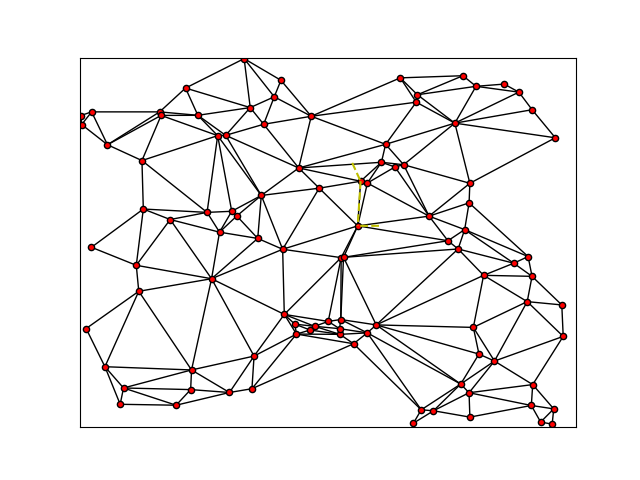
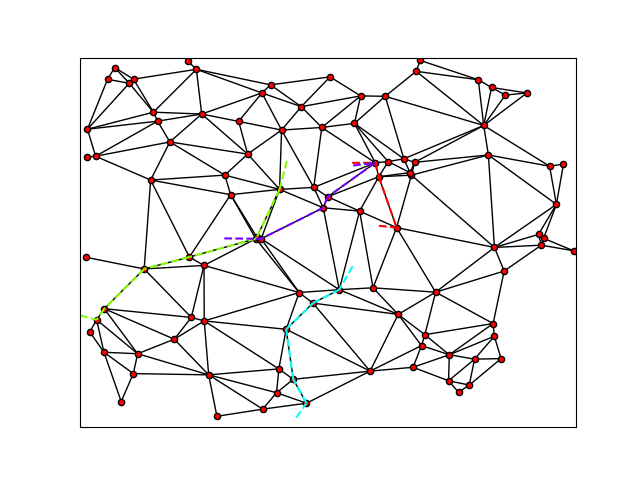
what is the cost doing?

Changed region(s): [[0.125, 0.125, 0.9062, 0.9062], [0.1562, 0.4688, 0.1875, 0.5]]

diff --git a/roadmaps/var_odrm_torch/var_odrm_torch.py b/roadmaps/var_odrm_torch/var_odrm_torch.py
@@ -6,6 +6,7 @@ import numpy as np
 import torch
 from networkx.exception import NetworkXNoPath, NodeNotFound
 from pyflann import FLANN
+from scenarios.visualization import get_colors
 from scipy.spatial import Delaunay
 from tools import ProgressBar
 
@@ -63,38 +64,43 @@ def draw_graph(g, pos, paths=[]):
     pos_dict = {i: pos_np[i] for i in range(N)}
     nx.draw_networkx(g, pos_dict, **options)
 
-    style = 'y--'
-    for p in paths:
+    colors = get_colors(len(paths))
+    style = '--'
+    for i_p, p in enumerate(paths):
         (start, goal, path_vs) = p
         for i in range(len(path_vs)-1):
             j = i+1
             ax.plot(
                 [pos_np[path_vs[i], 0], pos_np[path_vs[j], 0]],  # x
                 [pos_np[path_vs[i], 1], pos_np[path_vs[j], 1]],  # y
-                style)
+                style,
+                color=colors[i_p])
         ax.plot(
             [start[0], pos_np[path_vs[0], 0]],  # x
             [start[1], pos_np[path_vs[0], 1]],  # y
-            style)
+            style,
+            color=colors[i_p])
         ax.plot(
             [goal[0], pos_np[path_vs[-1], 0]],  # x
             [goal[1], pos_np[path_vs[-1], 1]],  # y
-            style)
+            style,
+            color=colors[i_p])
         ax.set_xlim([0., 1.])
         ax.set_ylim([0., 1.])
 
 
 def make_paths(g, pos, n_paths, seed=random.randint(0, 10E6)):
     nn = 1
-    np.random.seed(seed)
     pos_np = pos.detach().numpy()
     flann = FLANN()
     flann.build_index(np.array(pos_np))
     paths = []
-    for _ in range(n_paths):
+    for i in range(n_paths):
+        np.random.seed(seed+i)
         [start, goal] = np.random.random((2, 2))
         result, dists = flann.nn_index(
-            np.array([start, goal], dtype=pos_np.dtype), nn)
+            np.array([start, goal], dtype=pos_np.dtype), nn,
+            random_seed=seed)
         start_v, goal_v = result
         try:
             paths.append(
@@ -135,7 +141,7 @@ if __name__ == "__main__":
     n = 100
     batches = 1000
     learning_rate = 1e-3
-    stats_every = 10
+    stats_every = 100
 
     pos = sample_points(n)
     g = make_graph(pos)
@@ -144,7 +150,7 @@ if __name__ == "__main__":
     optimizer = torch.optim.Adam([pos], lr=learning_rate)
     test_costs = []
 
-    draw_graph(g, pos, [test_paths[0]])
+    draw_graph(g, pos, test_paths[:4])
     plt.savefig("pre_training.png")
     pb = ProgressBar("Training", batches)
     for i_b in range(batches):
@@ -153,7 +159,7 @@ if __name__ == "__main__":
         test_length = get_paths_len(pos, test_paths)
         training_paths = make_paths(g, pos, 10, i_b)
         training_length = get_paths_len(pos, training_paths)
-        backward = training_length.backward(create_graph=True)
+        backward = training_length.backward()
         optimizer.step()
         g = make_graph(pos)
         if i_b % stats_every == stats_every-1:
@@ -163,7 +169,7 @@ if __name__ == "__main__":
             pb.progress(i_b)
     pb.end()
 
-    draw_graph(g, pos, [test_paths[0]])
+    draw_graph(g, pos, test_paths[:4])
     plt.savefig("post_training.png")
 
     plt.figure()
